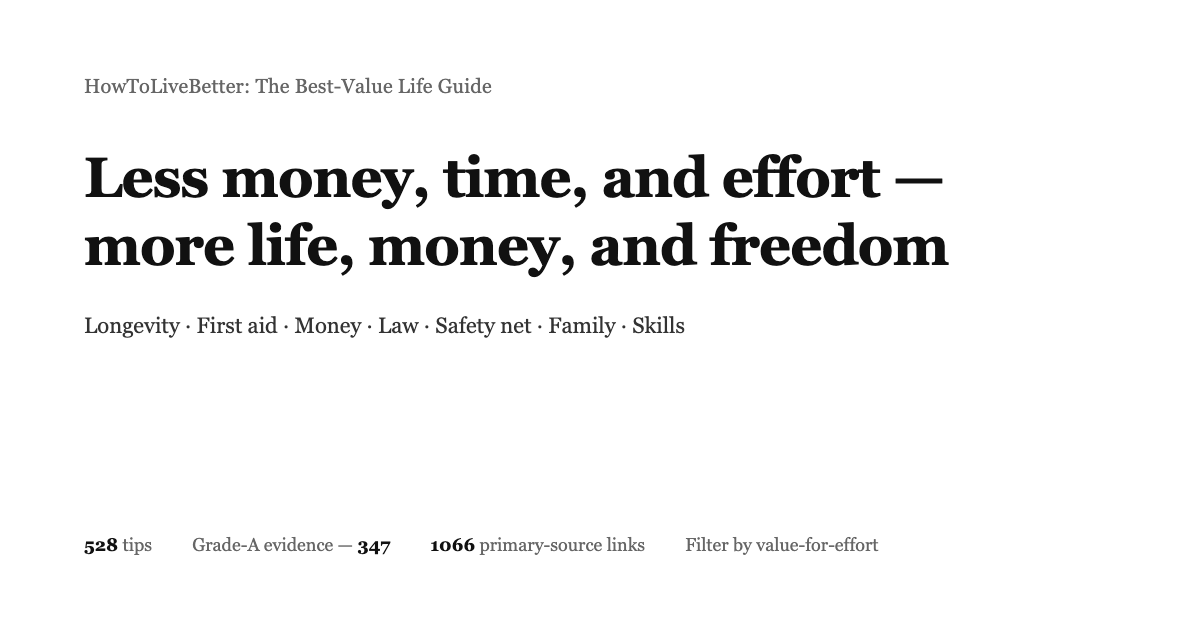
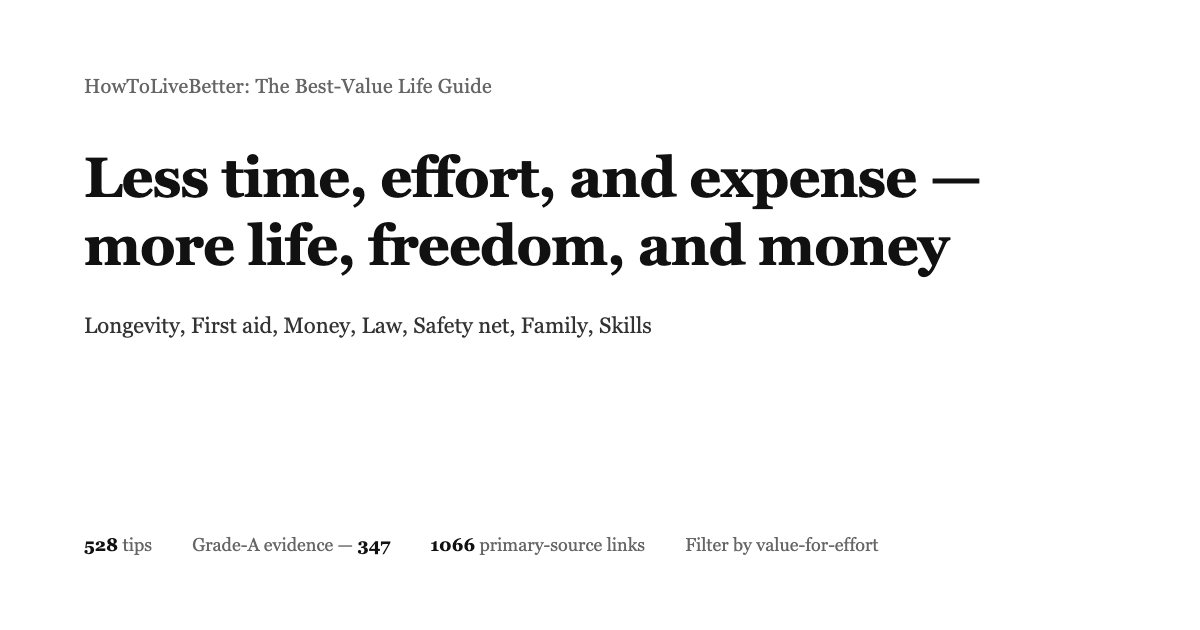
fix(og): commas for topics; fix EN money↔money echo
Match the RU cost/return wording on EN, and drop middot topic separators on all three banners.

Changed region(s): [[0.185, 0.2413, 0.8325, 0.4524], [0.1542, 0.4825, 0.5858, 0.5429]]

diff --git a/tools/og-ru.html b/tools/og-ru.html
@@ -27,7 +27,7 @@ h1{margin-top:44px;font-size:52px;line-height:1.22;letter-spacing:-.015em;color:
 <div class="in">
   <div class="brand">Гид по жизни с лучшим соотношением цены и результата</div>
   <h1>Меньше времени, сил и расходов —<br>больше жизни, свободы и денег</h1>
-  <p class="topics">Долголетие · Первая помощь · Деньги · Право · Семья · Навыки</p>
+  <p class="topics">Долголетие, Первая помощь, Деньги, Право, Семья, Навыки</p>
   <div class="stats">
     <span><b>528</b> советов</span>
     <span>Доказательства класса A — <b>347</b></span>

diff --git a/tools/og-en.html b/tools/og-en.html
@@ -26,8 +26,8 @@ h1{margin-top:44px;font-size:56px;line-height:1.22;letter-spacing:-.015em;color:
 </style>
 <div class="in">
   <div class="brand">HowToLiveBetter: The Best-Value Life Guide</div>
-  <h1>Less money, time, and effort —<br>more life, money, and freedom</h1>
-  <p class="topics">Longevity · First aid · Money · Law · Safety net · Family · Skills</p>
+  <h1>Less time, effort, and expense —<br>more life, freedom, and money</h1>
+  <p class="topics">Longevity, First aid, Money, Law, Safety net, Family, Skills</p>
   <div class="stats">
     <span><b>528</b> tips</span>
     <span>Grade-A evidence — <b>347</b></span>

diff --git a/tools/og.html b/tools/og.html
@@ -29,7 +29,7 @@ h1{margin-top:44px;font-size:64px;line-height:1.2;letter-spacing:-.015em;color:#
 <div class="in">
   <div class="brand">高性价比人生指南</div>
   <h1>用最少的钱、时间和精力，<br>换回寿命、金钱和自由</h1>
-  <p class="topics">长寿防病 · 急救 · 省钱理财 · 法律红线 · 失业兜底 · 恋爱婚育 · 出国 · 技能</p>
+  <p class="topics">长寿防病、急救、省钱理财、法律红线、失业兜底、恋爱婚育、出国、技能</p>
   <div class="stats">
     <span><b>528</b> 条建议</span>
     <span>A 级证据 <b>347</b> 条</span>

diff --git a/README.md b/README.md
@@ -1,6 +1,6 @@
 <div align="center">
 
-<img src="og-en.png" alt="HowToLiveBetter — trade the least money, time, and effort for the most lifespan, money, and personal freedom" width="820">
+<img src="og-en.png" alt="HowToLiveBetter — less time, effort, and expense for more life, freedom, and money" width="820">
 
 # HowToLiveBetter: The Best-Value Life Guide
 
